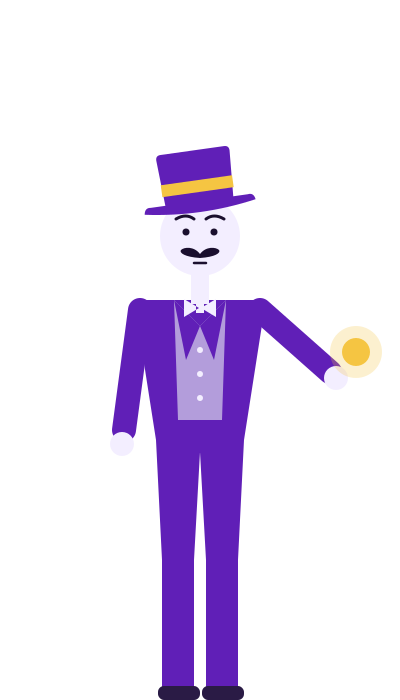
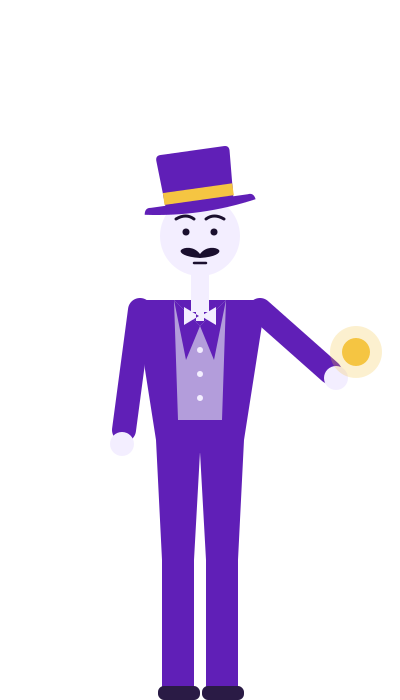
Dandy Man: bow tie and hat band lowered
Claude-Session: https://claude.ai/code/session_01MsLwUh4sHtdYL5twesgV4U

Changed region(s): [[0.39, 0.24, 0.6, 0.3], [0.45, 0.42, 0.54, 0.48]]

diff --git a/cast/dandy-man/gen_candidates.py b/cast/dandy-man/gen_candidates.py
@@ -35,7 +35,7 @@ def hat(tilt_deg, tall=True):
     return f"""
   <g transform="rotate({tilt_deg} 200 {base})">
     <path d="{crown}" fill="{PRIMARY}"/>
-    <rect x="164" y="{base - 26}" width="72" height="12" fill="{GOLD}"/>
+    <rect x="165" y="{base - 18}" width="70" height="12" fill="{GOLD}"/>
     <path d="{brim}" fill="{PRIMARY}"/>
   </g>"""
 
@@ -52,7 +52,7 @@ def head(brow="flat"):
   <path d="M206 219 Q214 213 224 219" stroke="{BG}" stroke-width="3" fill="none" stroke-linecap="round"/>
   <path d="M200 254 C194 246 184 247 181 250 C179 253 185 257 200 258 C215 257 221 253 219 250 C216 247 206 246 200 254 Z" fill="{BG}"/>
   <line x1="194" y1="263" x2="206" y2="263" stroke="{BG}" stroke-width="2.5" stroke-linecap="round"/>
-  <rect x="191" y="270" width="18" height="34" fill="{TEXT}"/>"""
+  <rect x="191" y="270" width="18" height="42" fill="{TEXT}"/>"""
 
 
 def body(arms="cane", slim=1.0):
@@ -69,8 +69,8 @@ def body(arms="cane", slim=1.0):
         f"M{200 - 26} 300 L{200 - 14} 360 L200 326 Z M{200 + 26} 300 L{200 + 14} 360 L200 326 Z"
     )
     collar = ""
-    cravat = (f"M199 308 L184 299 L184 317 Z M201 308 L216 299 L216 317 Z "
-              f"M196 303 L204 303 L204 313 L196 313 Z")
+    cravat = (f"M199 316 L184 307 L184 325 Z M201 316 L216 307 L216 325 Z "
+              f"M196 311 L204 311 L204 321 L196 321 Z")
     buttons = "".join(
         f'<circle cx="200" cy="{y}" r="3" fill="{TEXT}"/>' for y in (350, 374, 398)
     )
